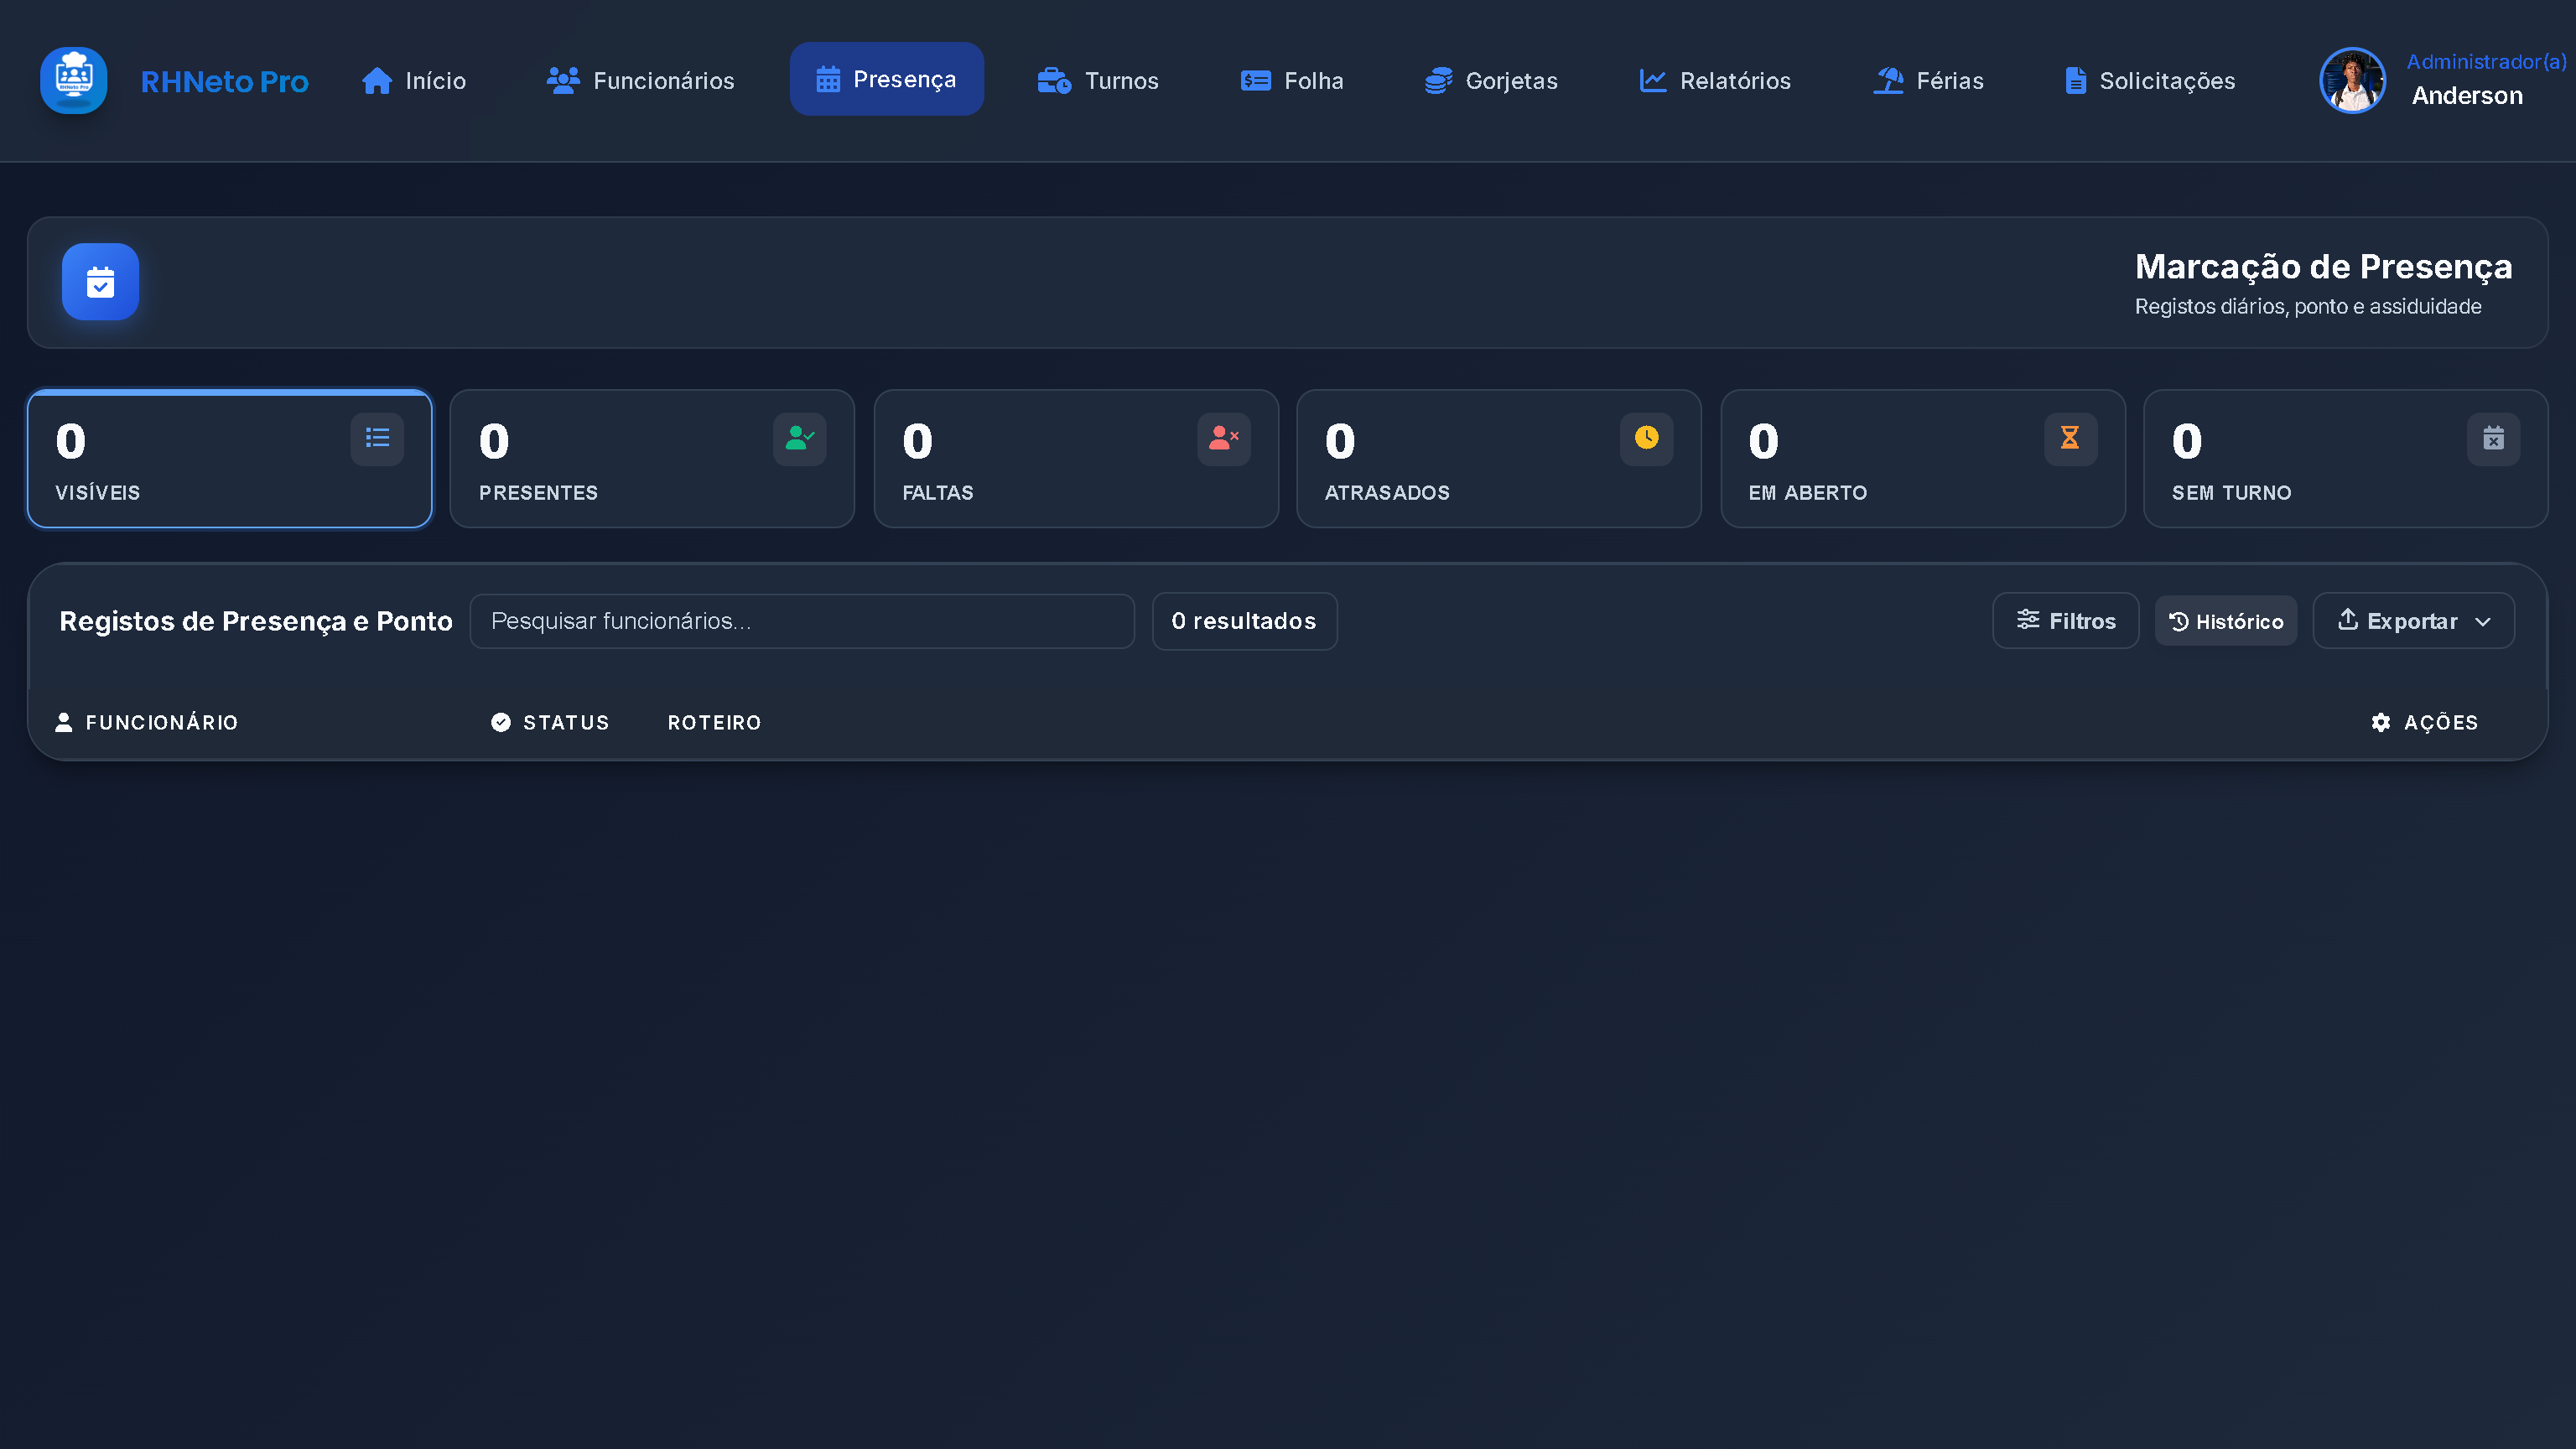
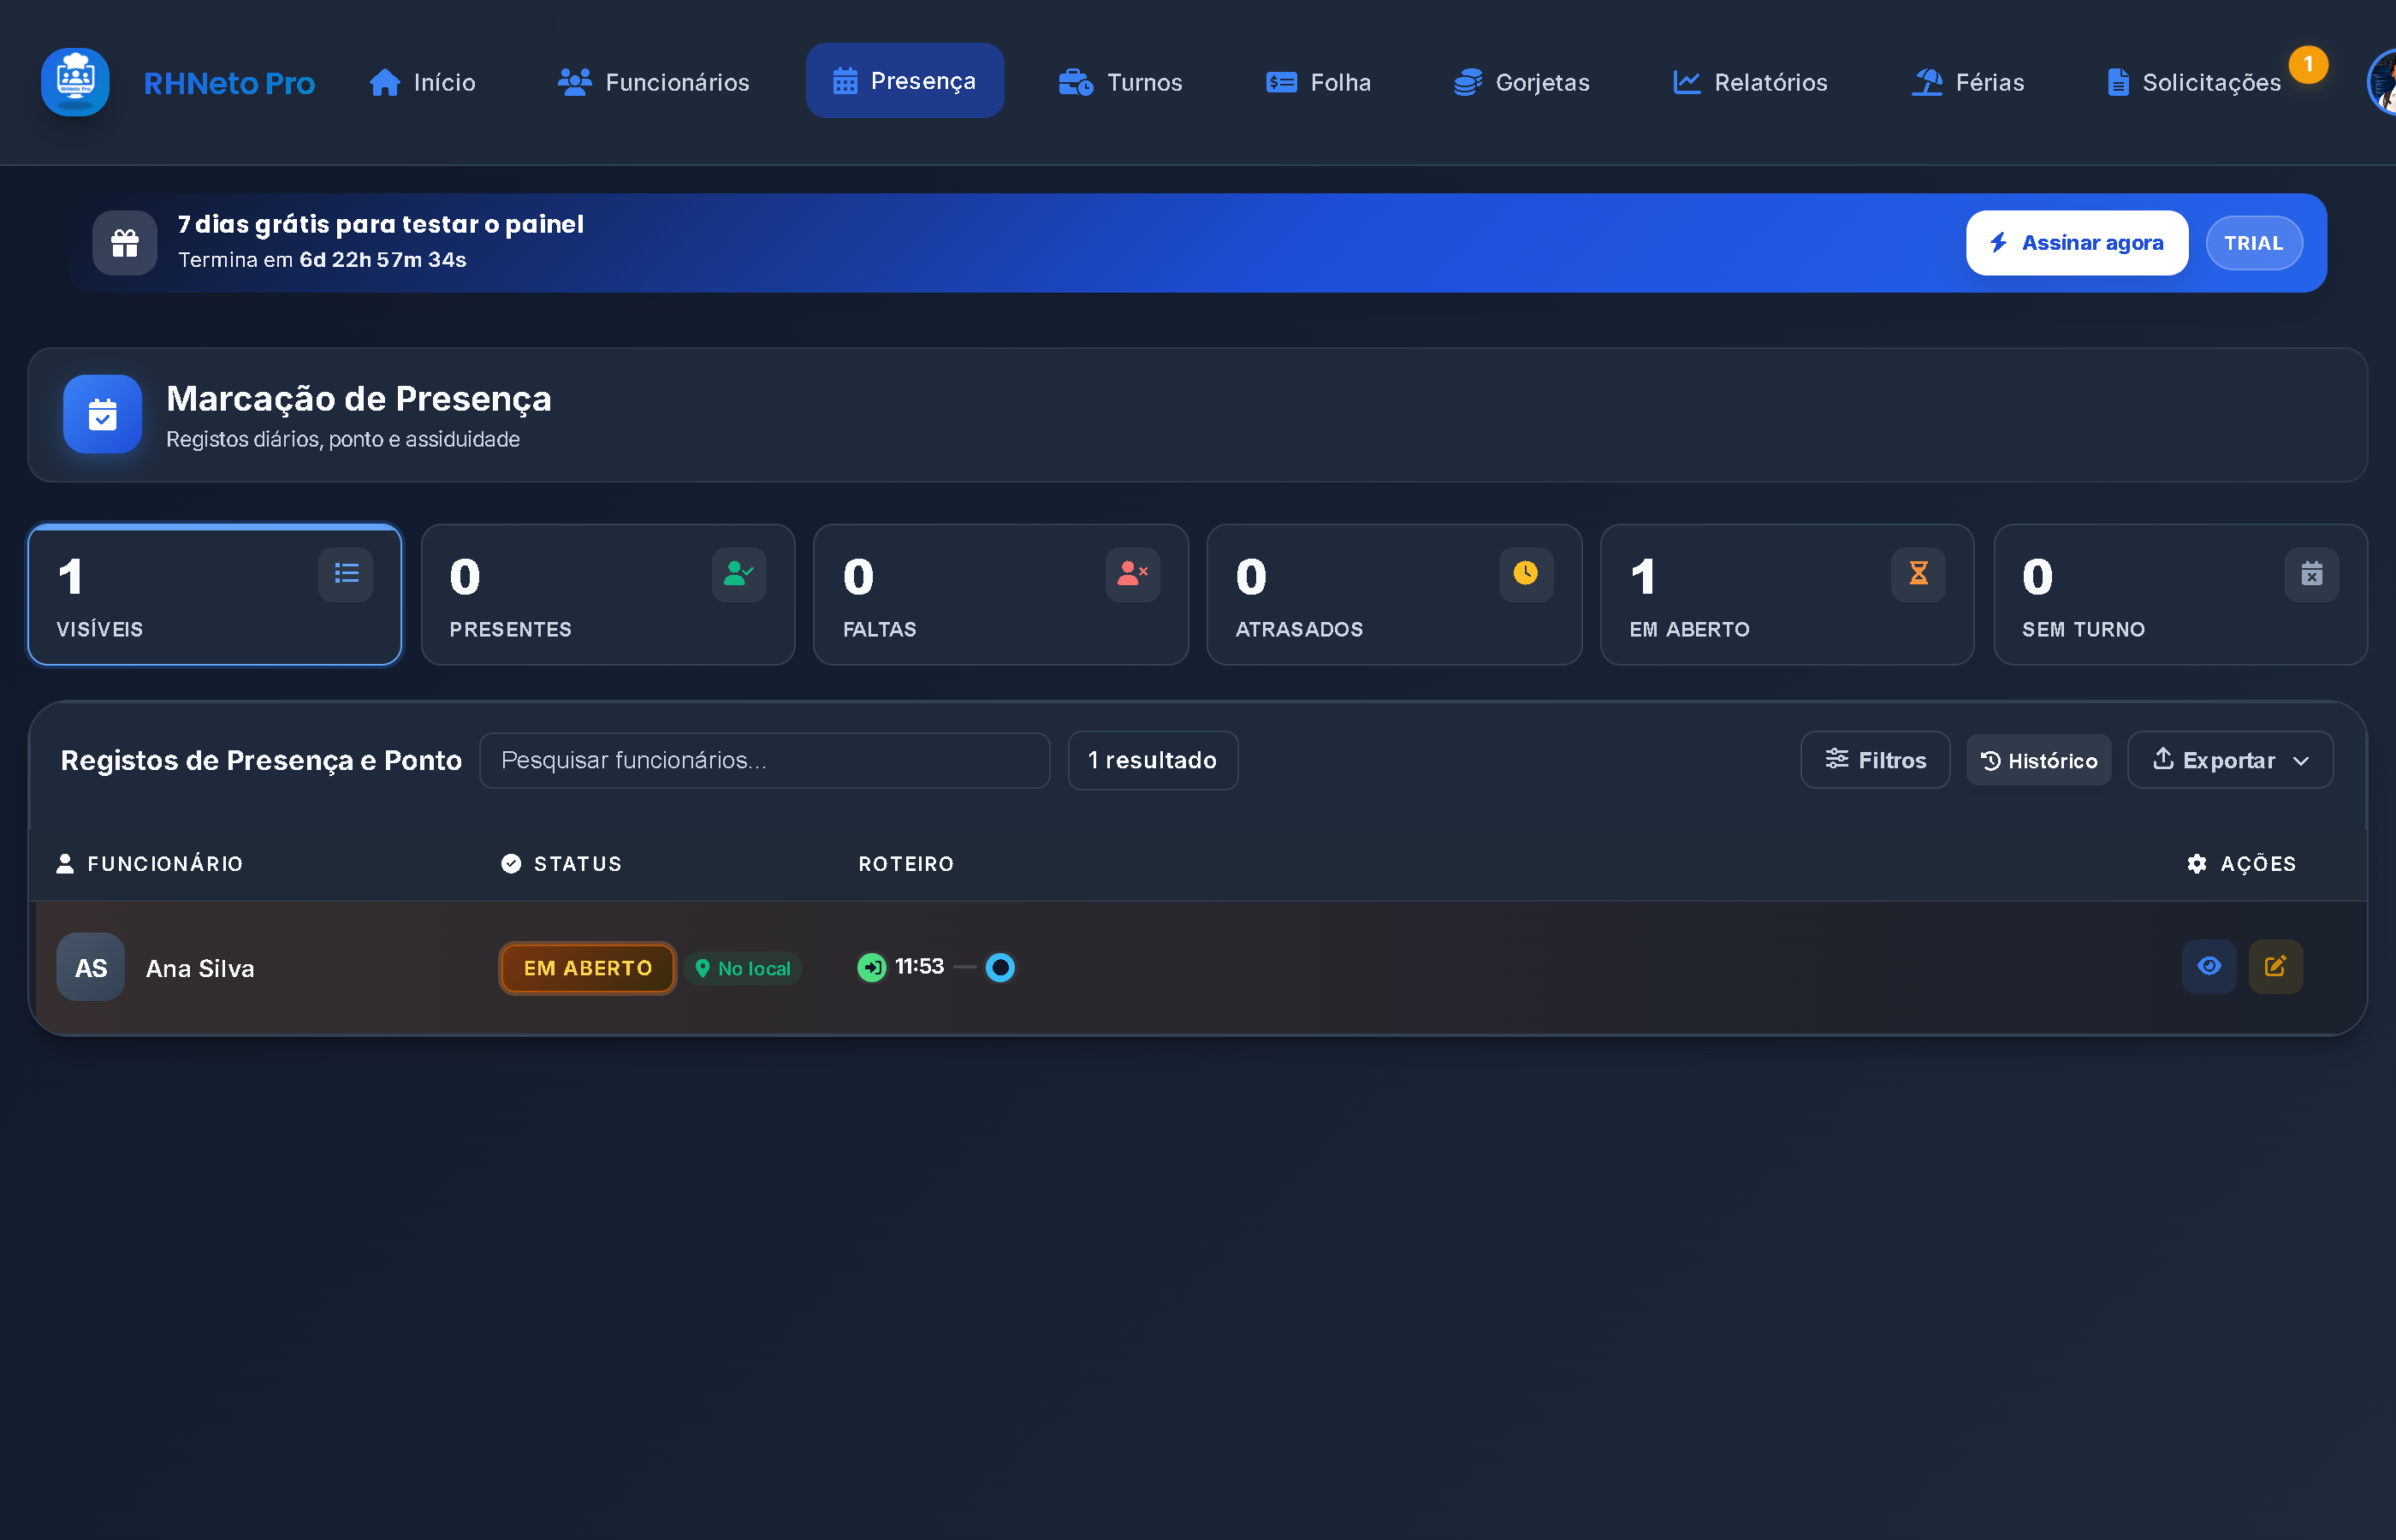
Update employee and admin manuals for GPS location verification
- Employee manual: note that marking entrada/saida may prompt for location
  permission, and that punching never gets blocked either way
- Admin manual: document the new "Localizacao do Estabelecimento" setup
  inside Horarios, and the location badge shown per record in Presenca
- Refresh admin manual screenshots (assiduidade.png, new localizacao.png)
  to show the feature in action

diff --git a/manualadm/manual.html b/manualadm/manual.html
@@ -202,6 +202,7 @@
                 <li>Usa <strong>"Editar registo"</strong> para corrigir um ponto (por exemplo, se o funcionário se esqueceu de marcar a saída).</li>
                 <li>Confirma os registos de ponto pendentes para que fiquem validados no histórico oficial.</li>
                 <li>Exporta o histórico para CSV/Excel sempre que precisares de um relatório externo.</li>
+                <li>Se tiveres configurado a <strong>localização do estabelecimento</strong> (em Definições), cada registo mostra também um pequeno indicador: <strong>📍 No local</strong> (verde) ou <strong>📍 Fora do local</strong> (âmbar, com a distância em metros) — nunca bloqueia a marcação, é só um sinal para revisares.</li>
             </ol>
             <div class="shot-wrap">
                 <img src="assiduidade.png" alt="Ecrã Presença do administrador" onerror="this.style.display='none'; this.nextElementSibling.style.display='flex';">
@@ -336,6 +337,20 @@
             <div class="shot-wrap">
                 <img src="definicoes.png" alt="Ecrã Definições do administrador" onerror="this.style.display='none'; this.nextElementSibling.style.display='flex';">
                 <div class="shot-missing"><span class="icon">🖼️</span><span>Captura de ecrã em falta — adiciona <code>definicoes.png</code> a esta pasta.</span></div>
+            </div>
+
+            <h3 style="margin:2rem 0 .5rem; font-size:1.05rem; color:var(--ink-950);">Localização do Estabelecimento (novo)</h3>
+            <p class="intro">Dentro do modal de <strong>"Configurar Horários"</strong>, podes agora definir a localização GPS do estabelecimento, para confirmar se os funcionários estão mesmo no local ao marcarem presença.</p>
+            <ol class="steps">
+                <li>Abre a app <strong>estando fisicamente no restaurante</strong> e clica em <strong>"Usar a minha localização atual"</strong> — as coordenadas são preenchidas automaticamente a partir do teu telemóvel/PC.</li>
+                <li>Ajusta o <strong>raio permitido</strong> (em metros) — 150m é um valor razoável para a maioria dos casos.</li>
+                <li>Guarda. A partir daí, cada marcação de ponto de um funcionário passa a mostrar um indicador de localização em <strong>Presença</strong>.</li>
+                <li>Esta configuração é opcional — se não a definires, as marcações continuam a funcionar normalmente, só sem o indicador de localização.</li>
+            </ol>
+            <div class="tip"><strong>Nota:</strong> mesmo que um funcionário marque presença fora do raio (ou sem autorizar a localização), a marcação nunca é bloqueada — só fica assinalada para revisares.</div>
+            <div class="shot-wrap">
+                <img src="localizacao.png" alt="Configuração da localização do estabelecimento" onerror="this.style.display='none'; this.nextElementSibling.style.display='flex';">
+                <div class="shot-missing"><span class="icon">🖼️</span><span>Captura de ecrã em falta — adiciona <code>localizacao.png</code> a esta pasta.</span></div>
             </div>
         </section>
 

diff --git a/manualuserfuncionario/manual.html b/manualuserfuncionario/manual.html
@@ -329,6 +329,7 @@
                 <li>Em baixo, no <strong>"Histórico de Presenças"</strong>, podes navegar entre meses, ver o calendário, exportar os dados ou consultar cada dia em detalhe.</li>
             </ol>
             <div class="tip"><strong>Importante:</strong> Se te esqueceres de marcar a saída, esse dia fica "incompleto" — avisa o administrador para corrigir se isso acontecer.</div>
+            <div class="tip"><strong>Localização:</strong> ao marcar entrada ou saída, o navegador pode pedir permissão de localização — isto ajuda a confirmar que estás no local de trabalho. Podes autorizar ou recusar: a marcação de ponto funciona na mesma em qualquer dos casos, nunca fica bloqueada por causa disto.</div>
             <div class="shot-wrap">
                 <img src="presenca.png" alt="Ecrã Presença e Ponto do portal do funcionário"
                     onerror="this.style.display='none'; this.nextElementSibling.style.display='flex';">